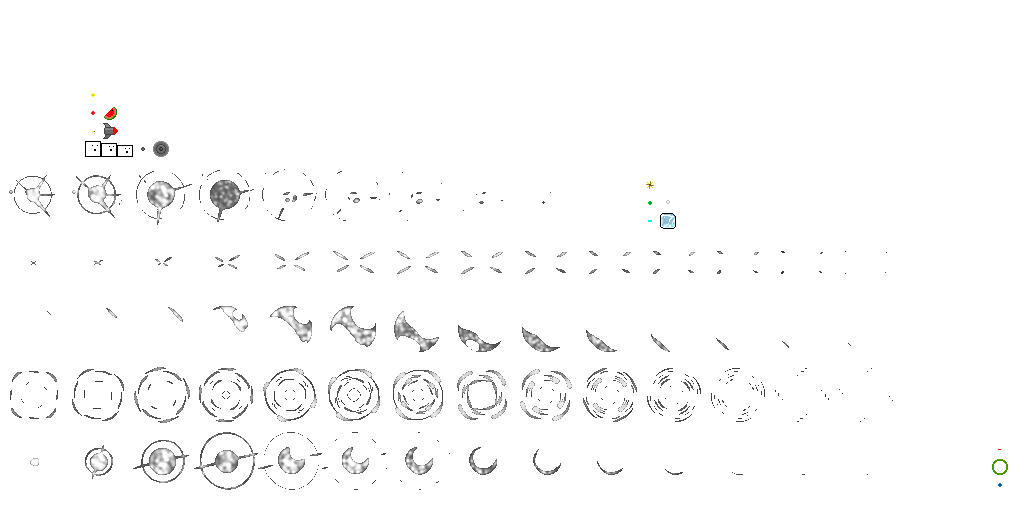
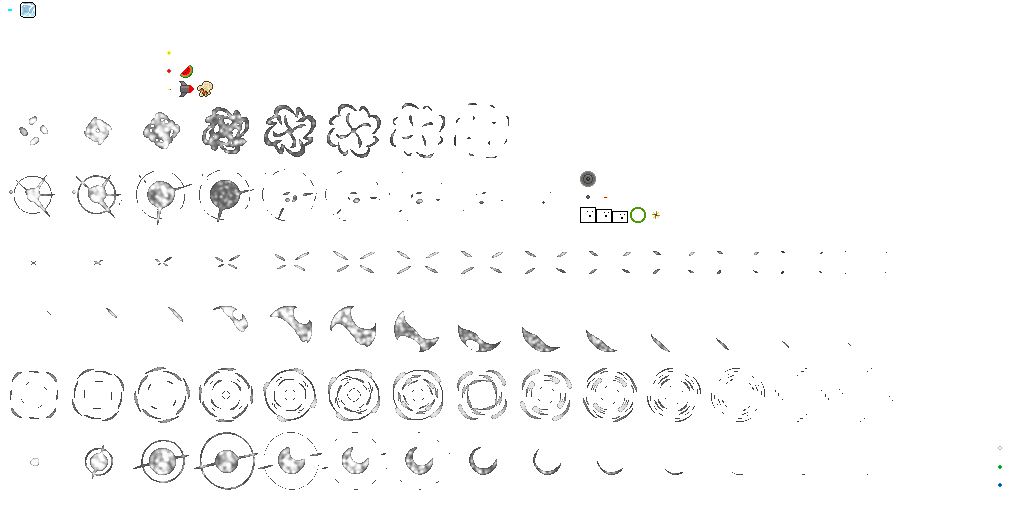
assets agregados, granada kinetica y freeze funcionando a falta de los dos iconos del menu

diff --git a/core/src/main/java/com/tikisadventure/combat/abilities/effects/SpawnProjectilesEffect.java b/core/src/main/java/com/tikisadventure/combat/abilities/effects/SpawnProjectilesEffect.java
@@ -17,14 +17,18 @@ public class SpawnProjectilesEffect implements AbilityEffect {
     private EffectManager effectManager;
     private String spriteName;
     private String explosionProfile;
+    private float scale;
+    private float rotationSpeed;
 
-    public SpawnProjectilesEffect(EffectManager effectManager, DamageType damageType, int count, float damage, String spriteName, String explosionProfile) {
+    public SpawnProjectilesEffect(EffectManager effectManager, DamageType damageType, int count, float damage, String spriteName, String explosionProfile, float scale, float rotationSpeed) {
         this.effectManager = effectManager;
         this.damageType = damageType;
         this.count = count;
         this.damage = damage;
         this.spriteName = spriteName;
         this.explosionProfile = explosionProfile;
+        this.scale = scale;
+        this.rotationSpeed = rotationSpeed;
     }
 
     @Override
@@ -40,9 +44,10 @@ public class SpawnProjectilesEffect implements AbilityEffect {
             float angle = baseAngle + randomOffset;
             Vector2 bulletDir = new Vector2(1, 0).setAngleDeg(angle);
             
-            Projectile p = new Projectile(owner, origin, bulletDir, 10f, damage, 0f, 1f, 0.5f, 
+            Projectile p = new Projectile(owner, origin, bulletDir, 10f, damage, 0f, 1f, 0.5f * scale,
                                           Assets.getRegion("shared", spriteName), effectManager, null, 0f);
             p.setDamageType(damageType);
+            p.setRotationSpeed(rotationSpeed);
             owner.addProjectile(p);
         }
         return true;

diff --git a/core/src/main/java/com/tikisadventure/combat/abilities/AbilityFactory.java b/core/src/main/java/com/tikisadventure/combat/abilities/AbilityFactory.java
@@ -87,7 +87,9 @@ public class AbilityFactory {
                         params.getInt("count"),
                         params.getFloat("damage"),
                         params.getString("sprite", "bullet"),
-                        params.getString("profile", "STANDARD"));
+                        params.getString("profile", "STANDARD"),
+                        params.getFloat("scale", 1.0f),
+                        params.getFloat("rotationSpeed", 0f));
             case "EXPLOSION":
                 return new ExplosionEffect(em, params.getFloat("radius"), params.getFloat("damage"), params.getFloat("knockback"), params.getString("profile", "STANDARD"));
             case "BURNING":
